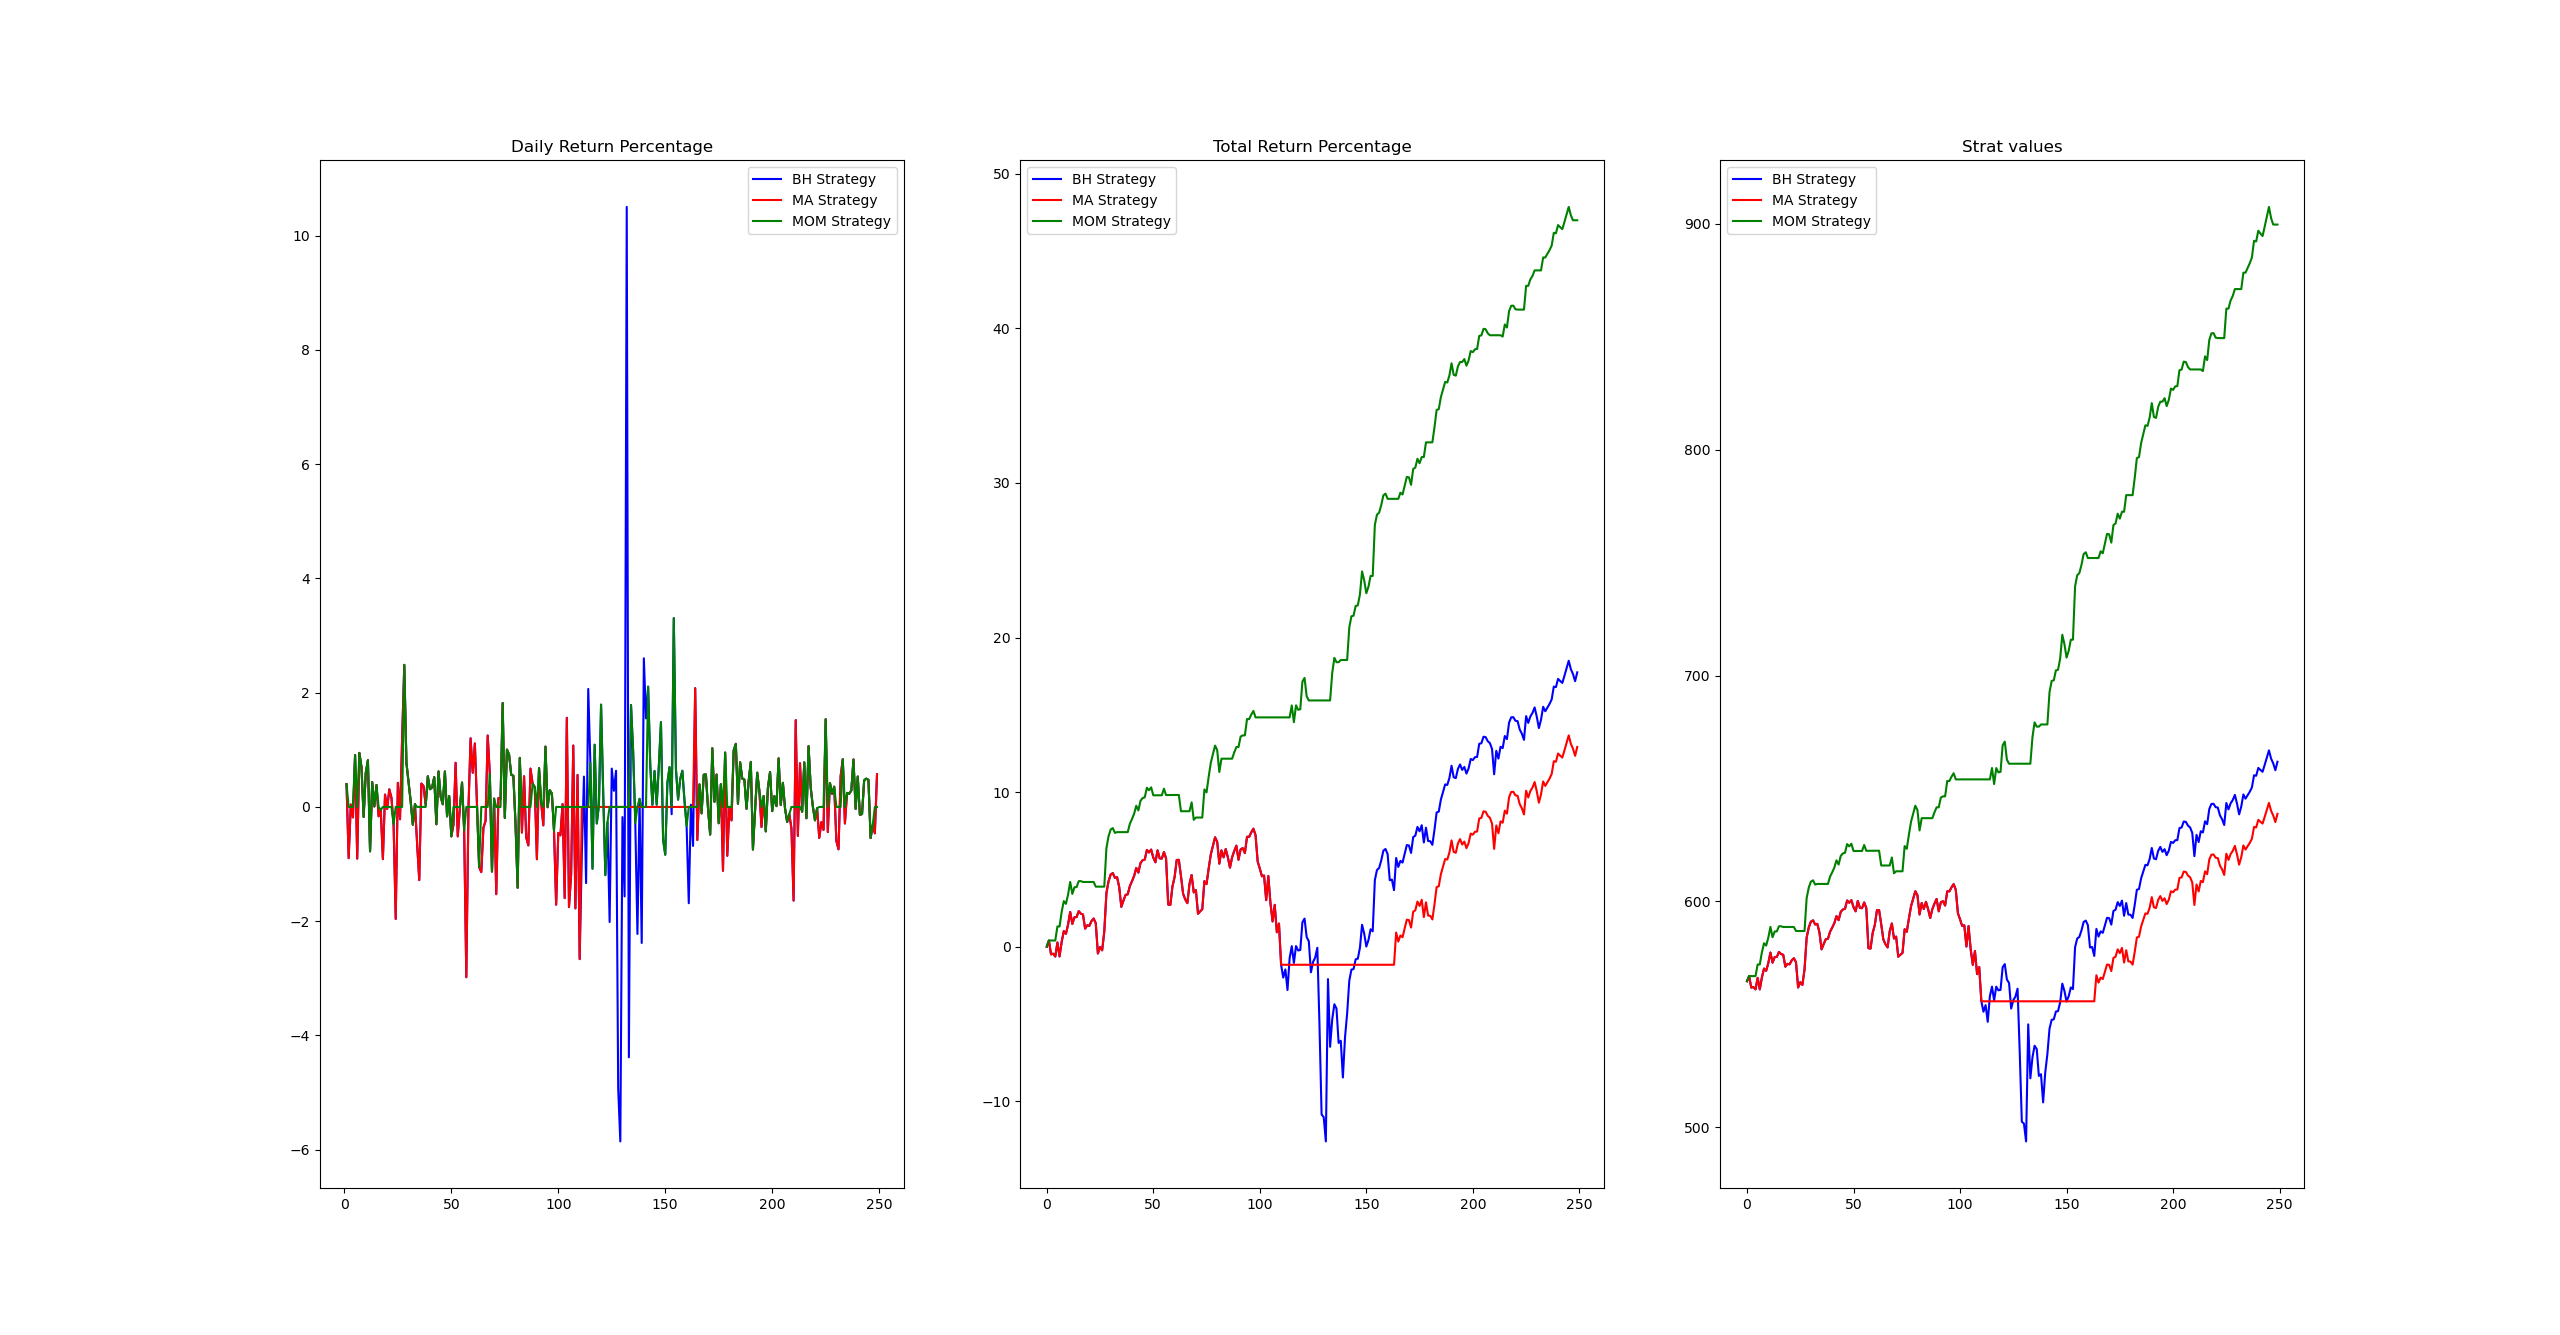
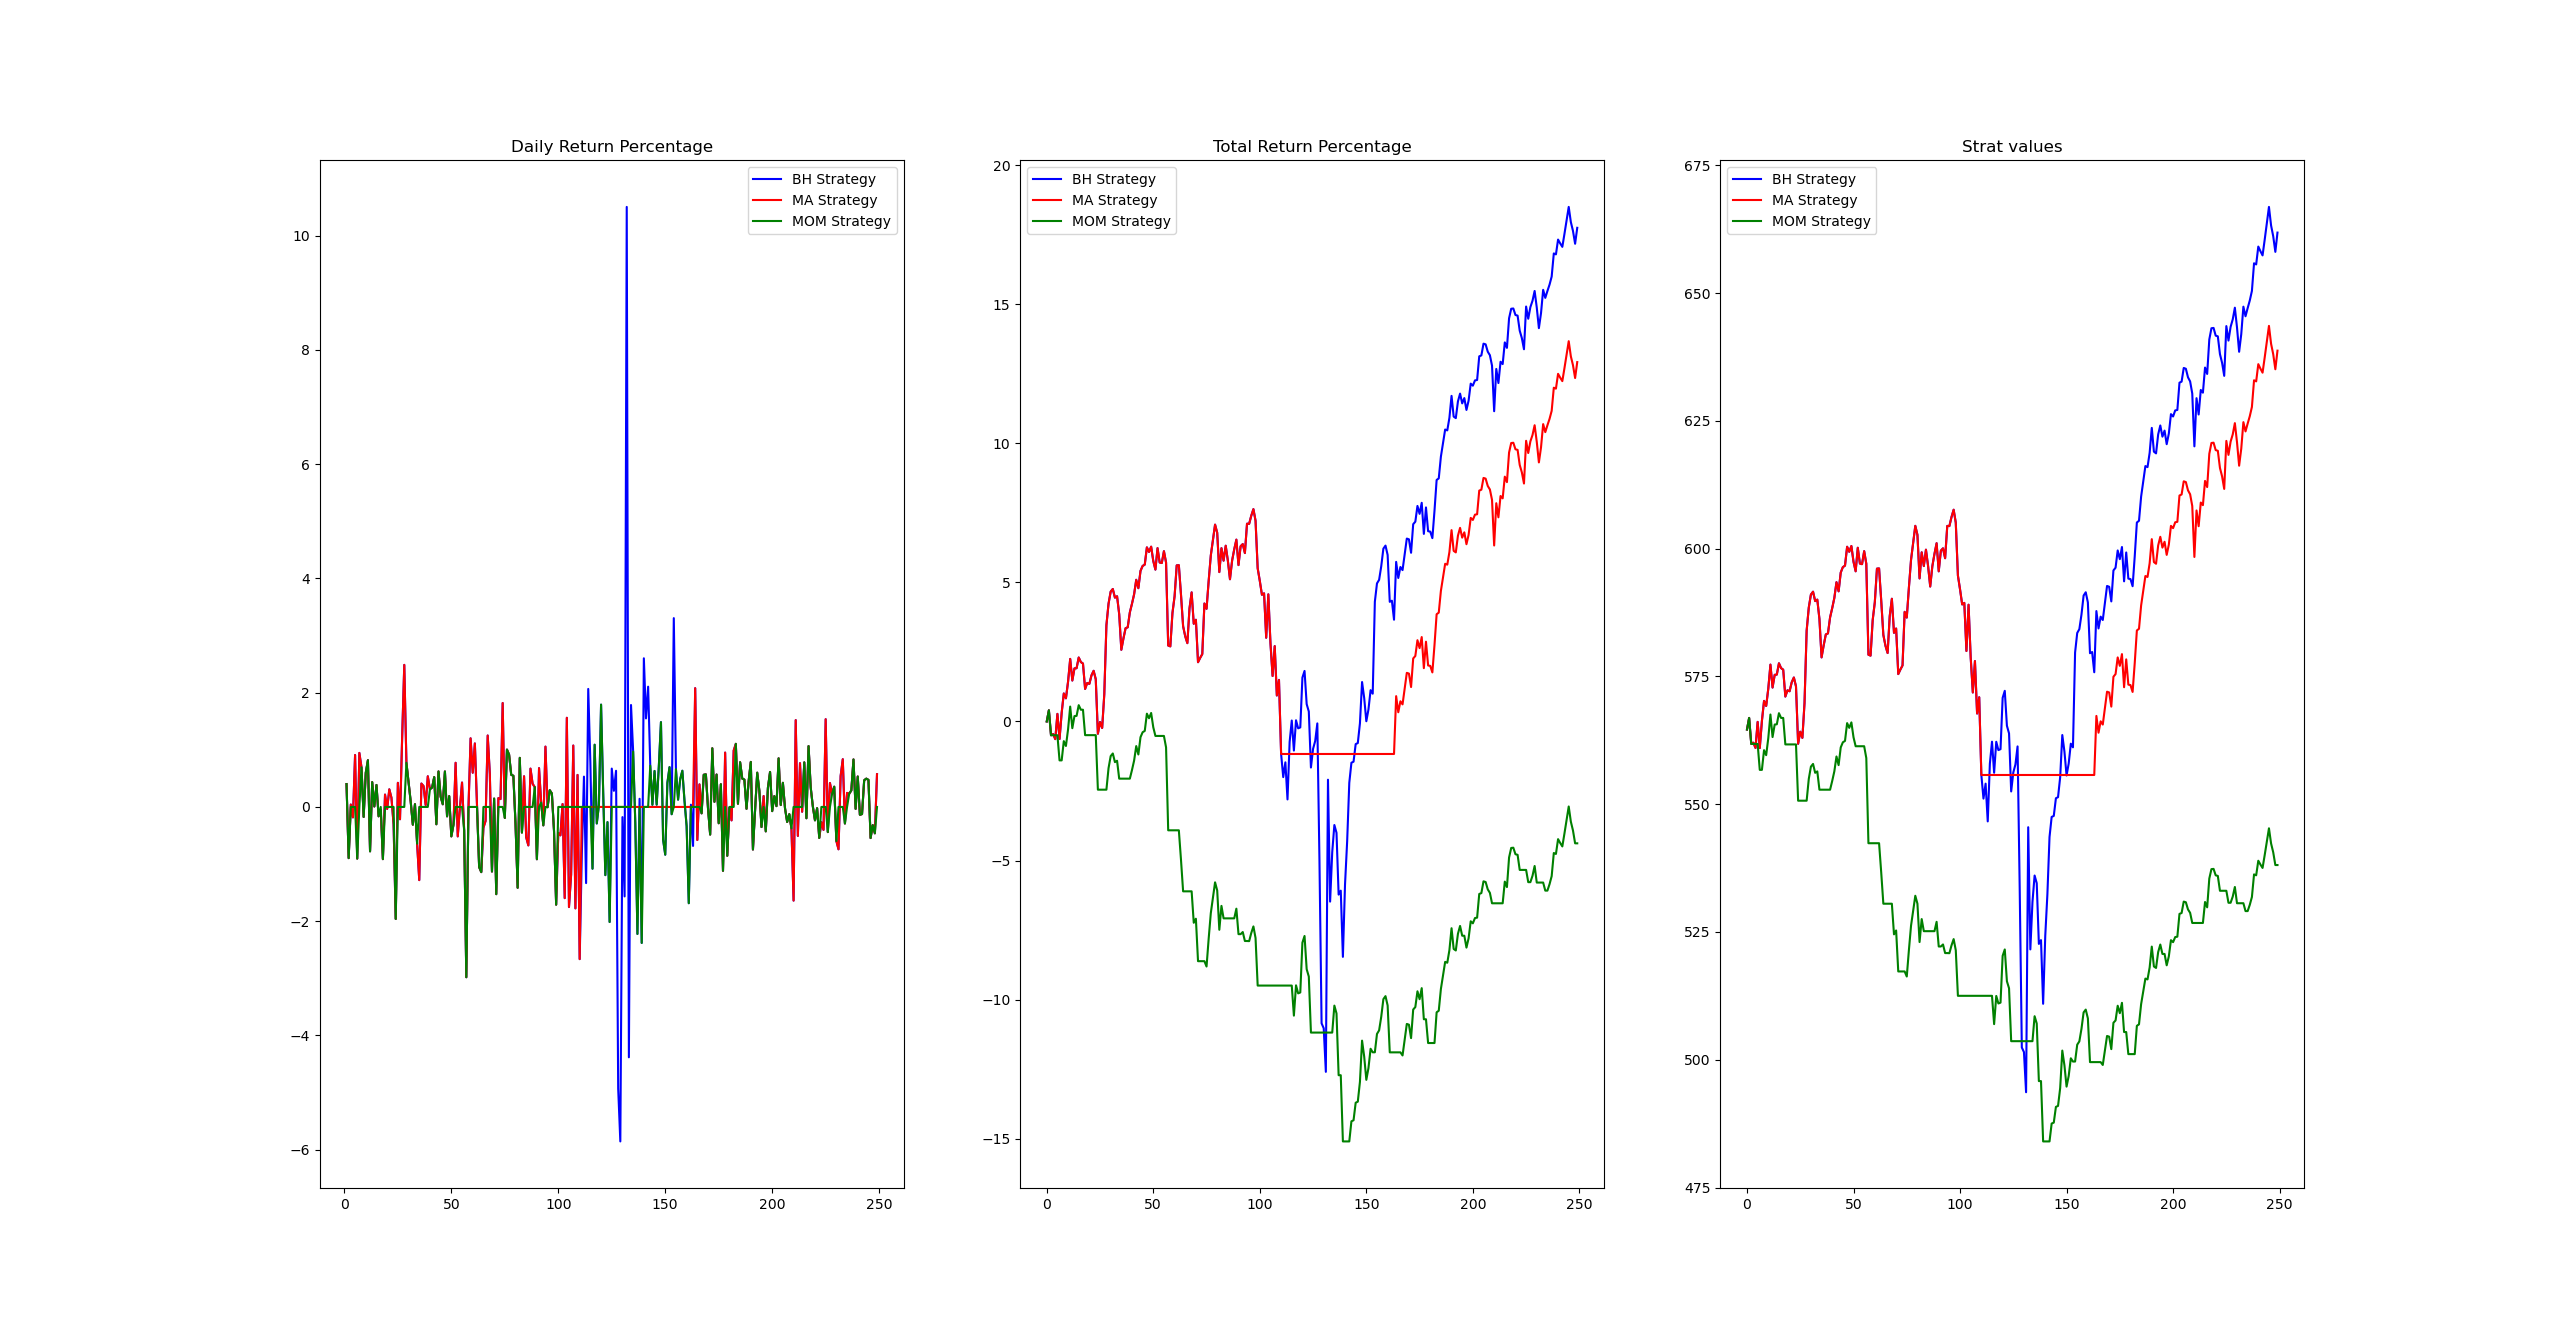
Updated Momentum Strategy to remove lookback bias

diff --git a/strategies.py b/strategies.py
@@ -48,7 +48,7 @@ def MomentumStrategy(sp500_data, lookback = 5):
     momentum = close_PricesMomentum.pct_change(lookback).dropna()
     momentum = momentum.iloc[-returnlength:,0]
 
-    signal = (momentum > 0).astype(int).tolist()
+    signal = (momentum > 0).astype(int).shift(1).fillna(0).tolist()
     
     portfolioValue = [close_Price.iloc[0]]
 
